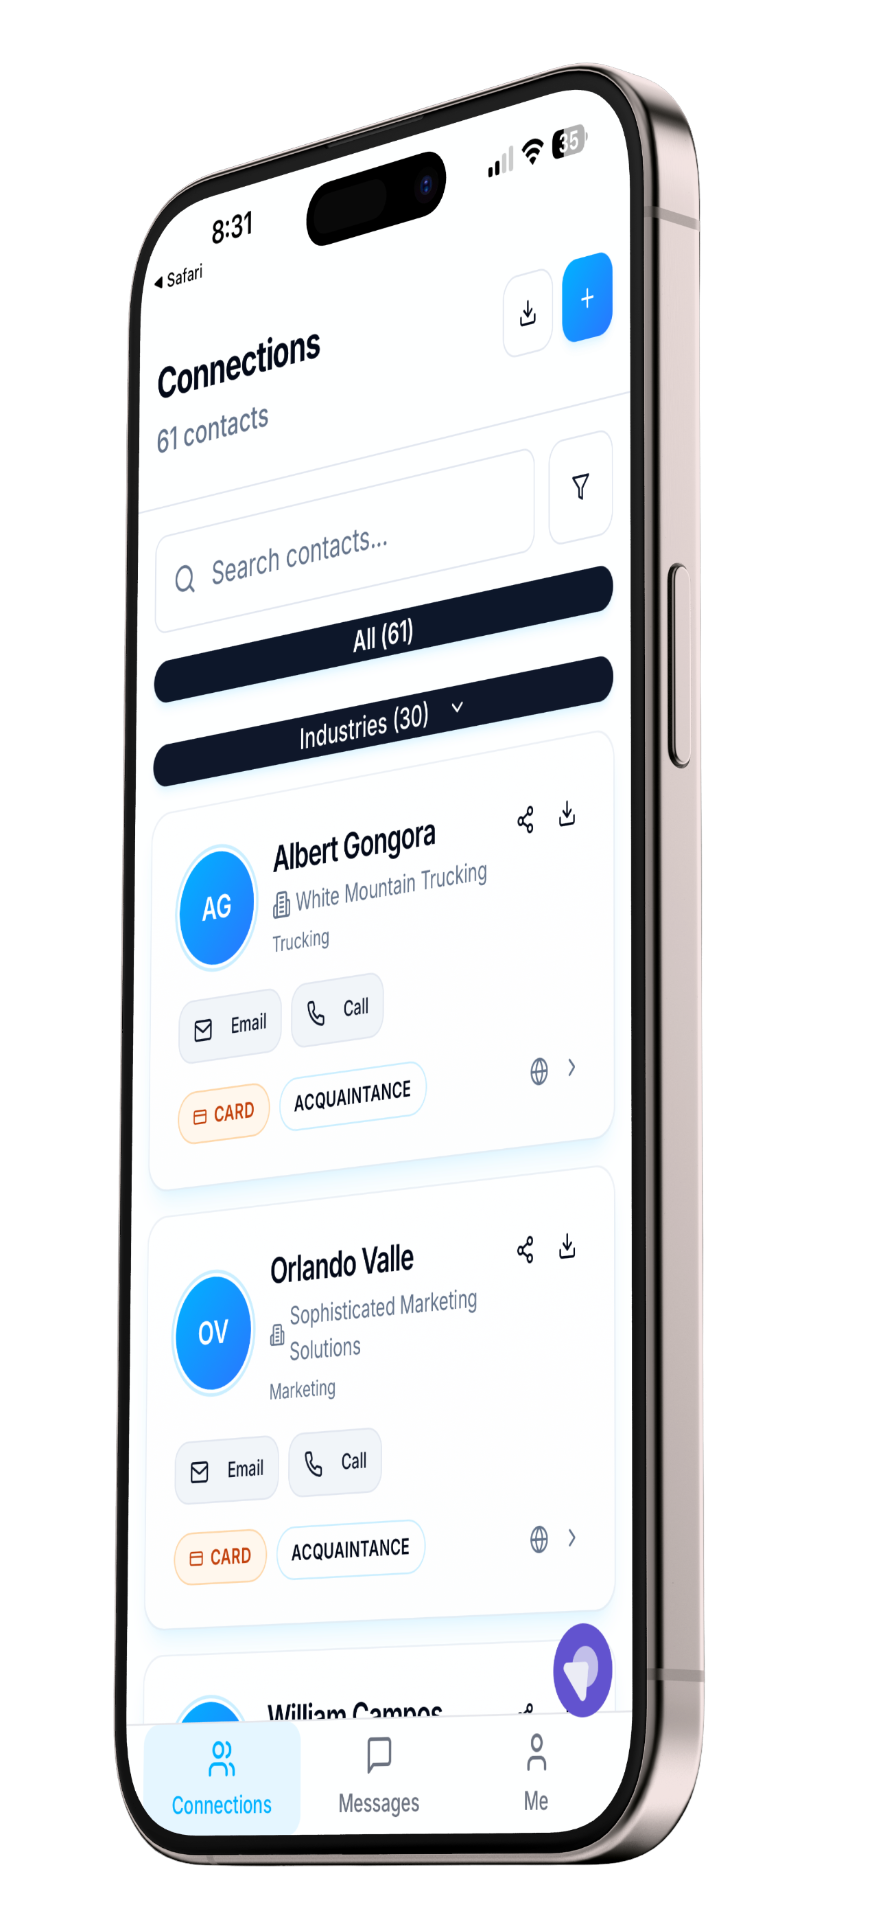
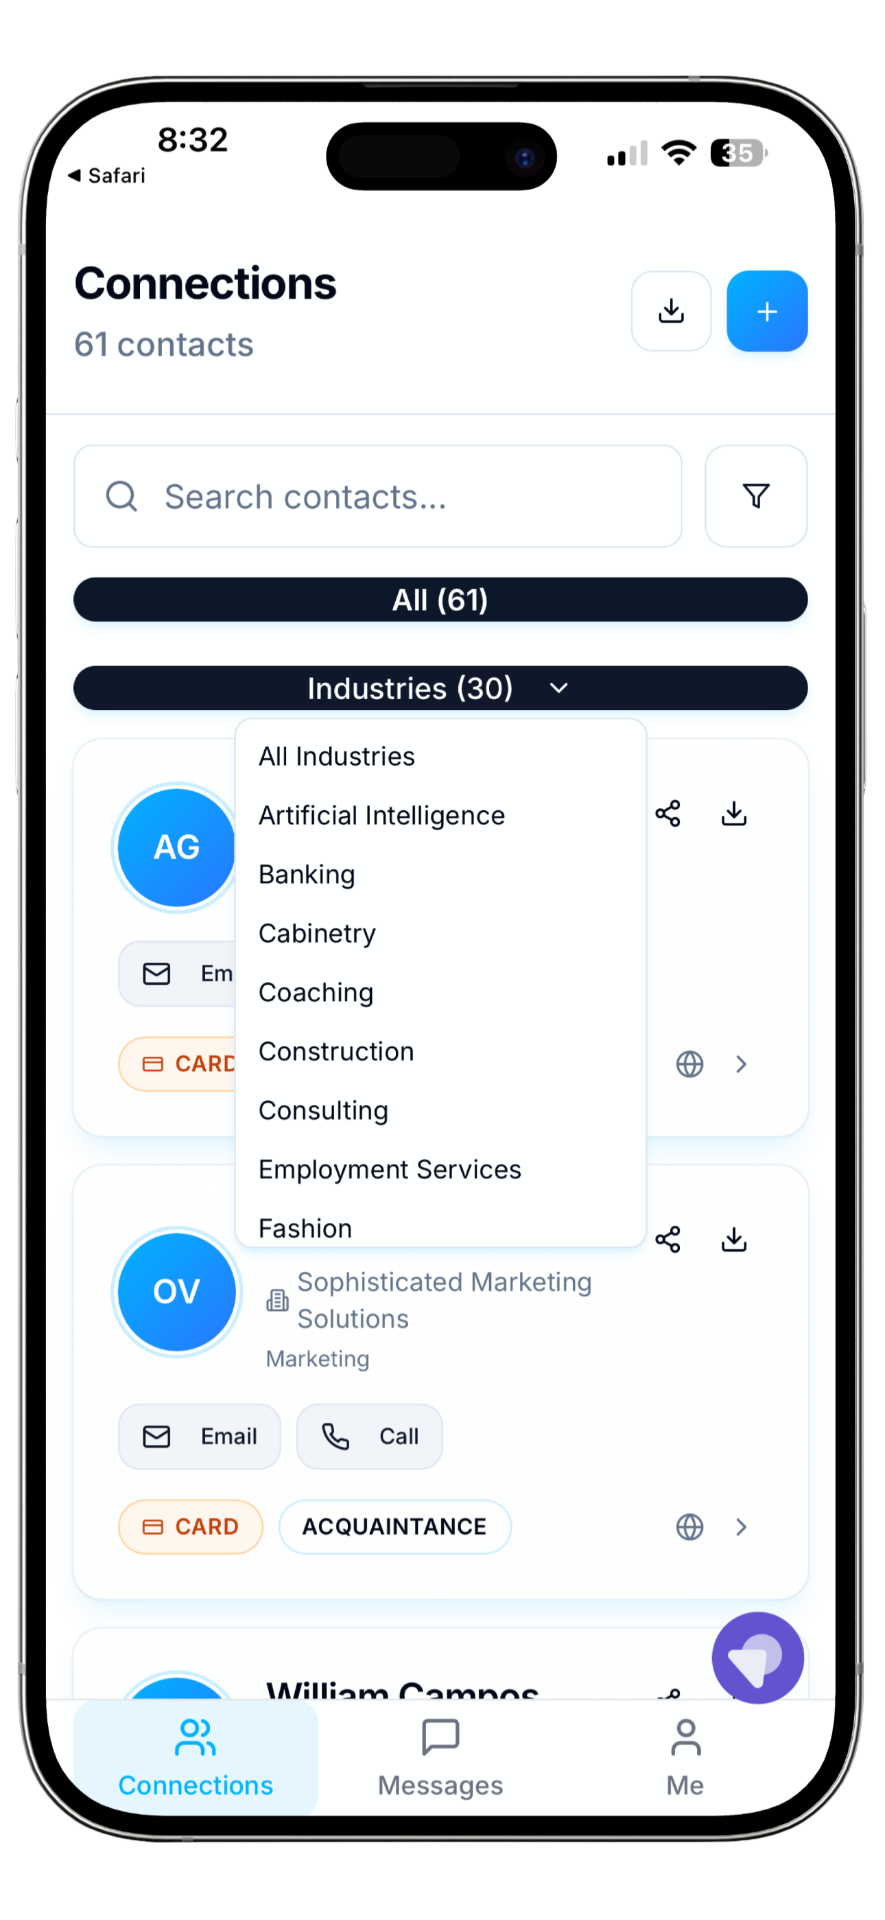
Update networking event image

diff --git a/src/pages/NetworkingEvent.tsx b/src/pages/NetworkingEvent.tsx
@@ -170,8 +170,8 @@ const NetworkingEvent = () => {
                 <div className="relative group">
                   <div className="absolute -inset-4 bg-gradient-to-r from-blue-500/20 to-cyan-500/20 rounded-3xl blur-xl animate-pulse"></div>
                   <img 
-                    src={appScanner} 
-                    alt="Networq App - Business Card Scanner" 
+                    src={appConnections} 
+                    alt="Networq App - Connections Screen" 
                     className="relative w-64 h-auto object-contain hover:scale-105 transition-transform duration-500 hover:rotate-2"
                   />
                 </div>
